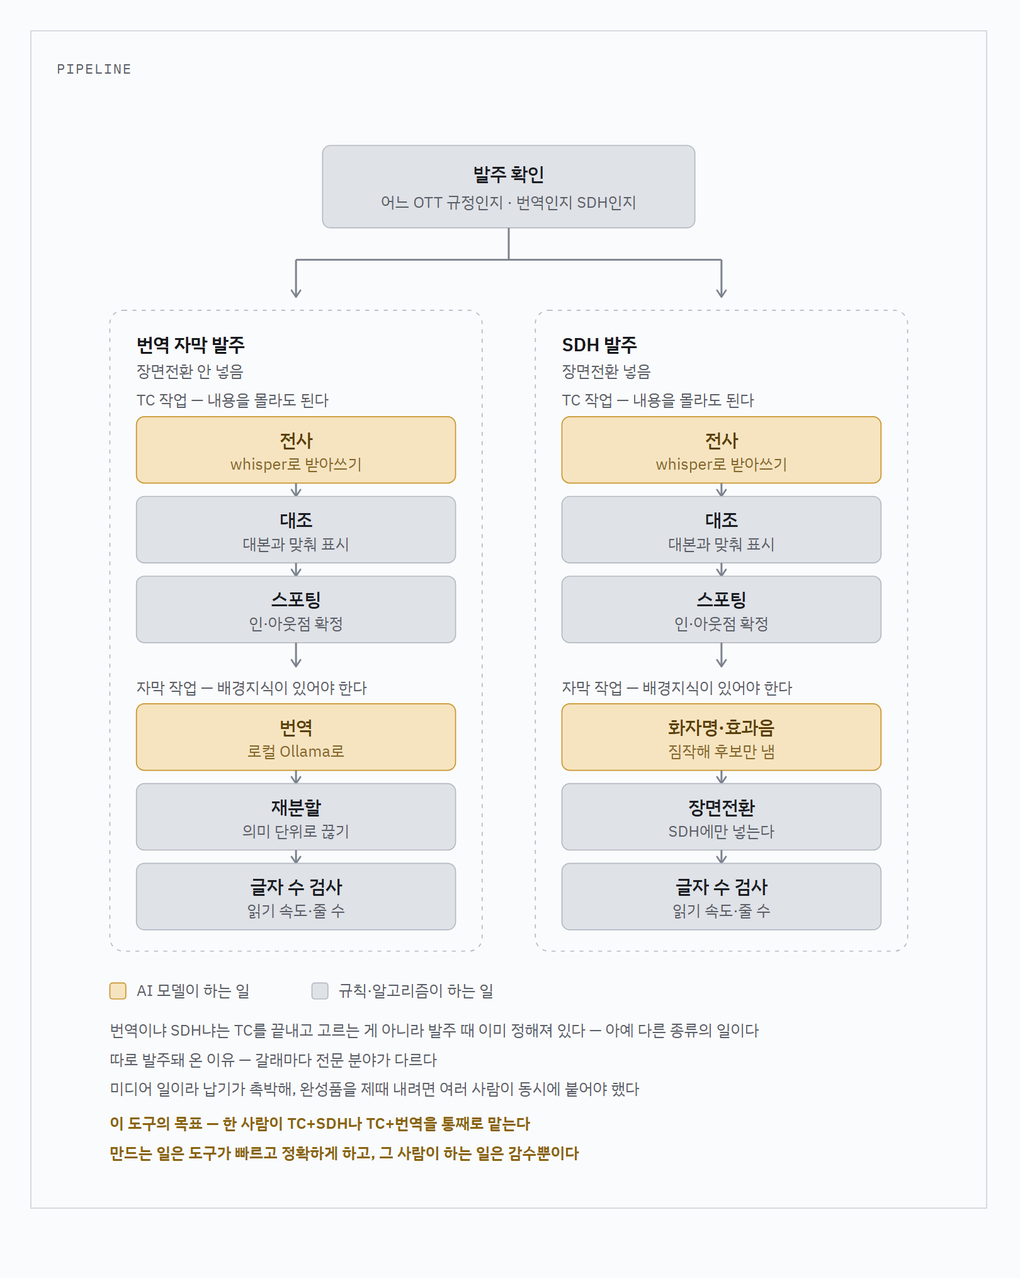
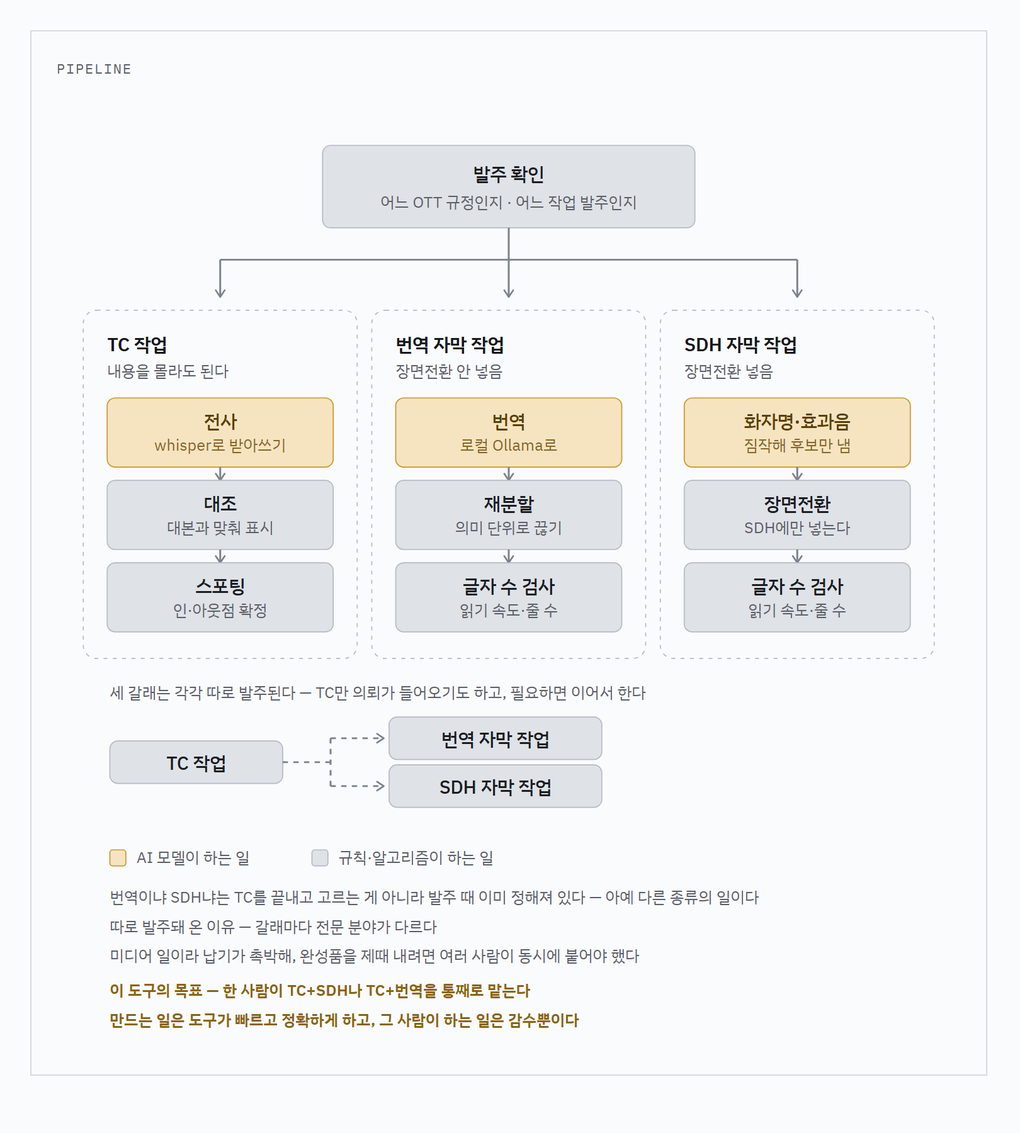
docs: TC 작업을 다시 독립 갈래로 세우고, 이어붙일 수 있음을 도식에 넣는다
사용자 지적(2026-09-10): TC 작업만 의뢰가 들어올 수 있으니 TC를 번역/SDH
안에 넣지 말고 따로 둬야 한다. 세 단계를 각각 독립으로 두되 필요하면 두세
개를 이어서 할 수 있는 구조가 맞다.

도식을 세 갈래(TC 작업 · 번역 자막 작업 · SDH 자막 작업)가 발주 확인 아래
나란히 서는 모양으로 바꿨다. 그 아래 점선 띠로 TC에서 번역이나 SDH로
이어붙이는 경우를 따로 표시한다.

발표문 본문·짚을 것·축약 대본도 같은 내용으로 맞추고 도식 PNG를 재렌더해
Notion 카드에 반영했다.

diff --git a/자막TC생성기-발표문.html b/자막TC생성기-발표문.html
@@ -68,6 +68,7 @@ svg{width:100%;height:auto;display:block;min-width:620px;
 .cap{font-size:12px;fill:var(--ink-soft)}
 .cap-goal{font-size:12px;font-weight:600;fill:var(--accent)}
 .ar{stroke:var(--arrow);stroke-width:1.4;fill:none}
+.dash{stroke:var(--arrow);stroke-width:1.4;fill:none;stroke-dasharray:4 4}
 .qa{margin-top:52px}
 .qa h2{font-family:"Gowun Batang",serif;font-size:24px;font-weight:700;margin:0 0 6px}
 .qa .lede{margin:0 0 26px;color:var(--ink-soft);font-size:15px}
@@ -124,117 +125,111 @@ td em{font-style:normal;color:var(--ink-soft)}
   <div class="say">
     <figure class="figure">
     <figcaption>PIPELINE</figcaption>
-    <svg viewBox="0 0 680 818" role="img" aria-labelledby="plt pld">
+    <svg viewBox="0 0 680 718" role="img" aria-labelledby="plt pld">
       <title id="plt">자막 및 TC 생성기 작업 구조</title>
-      <desc id="pld">발주를 확인하는 것이 맨 앞이다. 어느 OTT 규정을 따르는지와 함께, 번역 자막을 만드는 발주인지 SDH를 만드는 발주인지가 이 시점에 이미 정해져 있다. 둘은 아예 다른 종류의 일이라 TC를 끝낸 뒤에 고르는 것이 아니다. 각 발주는 TC 작업(전사, 대조, 스포팅)을 거친 뒤 자막 작업으로 간다. 번역 발주는 번역, 재분할, 글자 수 검사로 가고 장면전환을 넣지 않는다. SDH 발주는 화자명과 효과음, 장면전환, 글자 수 검사로 간다. 세 작업은 갈래마다 전문 분야가 다른 데다, 미디어 일이라 납기가 촉박해 여러 사람이 동시에 붙어야 제때 완성품이 나오기 때문에 지금까지 따로 발주돼 왔다. 이 도구의 목표는 한 사람이 TC와 SDH, 또는 TC와 번역을 통째로 맡는 것이다. 만드는 일은 도구가 하고, 그 사람이 하는 일은 도구가 낸 결과를 감수하는 것뿐이다.</desc>
+      <desc id="pld">발주를 확인하는 것이 맨 앞이다. 어느 OTT 규정을 따르는지와 함께, 어느 작업을 맡는 발주인지가 이 시점에 정해진다. 그 아래로 세 갈래가 나란히 선다. TC 작업은 전사, 대조, 스포팅으로 자막이 뜨고 지는 자리를 잡는다. 번역 자막 작업은 번역, 재분할, 글자 수 검사로 가고 장면전환을 넣지 않는다. SDH 자막 작업은 화자명과 효과음, 장면전환, 글자 수 검사로 간다. 세 갈래는 각각 독립된 발주라 TC만 의뢰가 들어오기도 하고, 필요하면 TC를 끝낸 뒤 번역이나 SDH로 이어서 하기도 한다. 갈래마다 전문 분야가 다른 데다, 미디어 일이라 납기가 촉박해 여러 사람이 동시에 붙어야 제때 완성품이 나오기 때문에 지금까지 따로 발주돼 왔다. 이 도구의 목표는 한 사람이 TC와 SDH, 또는 TC와 번역을 통째로 맡는 것이다. 만드는 일은 도구가 하고, 그 사람이 하는 일은 도구가 낸 결과를 감수하는 것뿐이다.</desc>
       <defs><marker id="ar" viewBox="0 0 10 10" refX="8" refY="5" markerWidth="6" markerHeight="6" orient="auto-start-reverse"><path d="M2 1L8 5L2 9" fill="none" stroke="context-stroke" stroke-width="1.5" stroke-linecap="round" stroke-linejoin="round"/></marker></defs>
 
       <g class="n-rule">
         <rect x="200" y="36" width="280" height="62" rx="6"/>
         <text class="t" x="340" y="58" text-anchor="middle" dominant-baseline="central">발주 확인</text>
-        <text class="s" x="340" y="79" text-anchor="middle" dominant-baseline="central">어느 OTT 규정인지 · 번역인지 SDH인지</text>
+        <text class="s" x="340" y="79" text-anchor="middle" dominant-baseline="central">어느 OTT 규정인지 · 어느 작업 발주인지</text>
       </g>
       <line class="ar" x1="340" y1="98" x2="340" y2="122"/>
-      <line class="ar" x1="180" y1="122" x2="500" y2="122"/>
-      <line class="ar" x1="180" y1="122" x2="180" y2="150" marker-end="url(#ar)"/>
-      <line class="ar" x1="500" y1="122" x2="500" y2="150" marker-end="url(#ar)"/>
+      <line class="ar" x1="123" y1="122" x2="557" y2="122"/>
+      <line class="ar" x1="123" y1="122" x2="123" y2="150" marker-end="url(#ar)"/>
+      <line class="ar" x1="340" y1="122" x2="340" y2="150" marker-end="url(#ar)"/>
+      <line class="ar" x1="557" y1="122" x2="557" y2="150" marker-end="url(#ar)"/>
 
-      <rect class="lane" x="40" y="160" width="280" height="482" rx="10"/>
-      <text class="lb" x="60" y="186" dominant-baseline="central">번역 자막 발주</text>
-      <text class="lbs" x="60" y="206" dominant-baseline="central">장면전환 안 넣음</text>
-      <text class="lbs" x="60" y="228" dominant-baseline="central">TC 작업 — 내용을 몰라도 된다</text>
+      <rect class="lane" x="20" y="160" width="206" height="262" rx="10"/>
+      <text class="lb" x="38" y="186" dominant-baseline="central">TC 작업</text>
+      <text class="lbs" x="38" y="206" dominant-baseline="central">내용을 몰라도 된다</text>
       <g class="n-ai">
-        <rect x="60" y="240" width="240" height="50" rx="6"/>
-        <text class="t" x="180" y="258" text-anchor="middle" dominant-baseline="central">전사</text>
-        <text class="s" x="180" y="276" text-anchor="middle" dominant-baseline="central">whisper로 받아쓰기</text>
+        <rect x="38" y="226" width="170" height="52" rx="6"/>
+        <text class="t" x="123" y="244" text-anchor="middle" dominant-baseline="central">전사</text>
+        <text class="s" x="123" y="262" text-anchor="middle" dominant-baseline="central">whisper로 받아쓰기</text>
       </g>
-      <line class="ar" x1="180" y1="290" x2="180" y2="300" marker-end="url(#ar)"/>
+      <line class="ar" x1="123" y1="278" x2="123" y2="288" marker-end="url(#ar)"/>
       <g class="n-rule">
-        <rect x="60" y="300" width="240" height="50" rx="6"/>
-        <text class="t" x="180" y="318" text-anchor="middle" dominant-baseline="central">대조</text>
-        <text class="s" x="180" y="336" text-anchor="middle" dominant-baseline="central">대본과 맞춰 표시</text>
+        <rect x="38" y="288" width="170" height="52" rx="6"/>
+        <text class="t" x="123" y="306" text-anchor="middle" dominant-baseline="central">대조</text>
+        <text class="s" x="123" y="324" text-anchor="middle" dominant-baseline="central">대본과 맞춰 표시</text>
       </g>
-      <line class="ar" x1="180" y1="350" x2="180" y2="360" marker-end="url(#ar)"/>
+      <line class="ar" x1="123" y1="340" x2="123" y2="350" marker-end="url(#ar)"/>
       <g class="n-rule">
-        <rect x="60" y="360" width="240" height="50" rx="6"/>
-        <text class="t" x="180" y="378" text-anchor="middle" dominant-baseline="central">스포팅</text>
-        <text class="s" x="180" y="396" text-anchor="middle" dominant-baseline="central">인·아웃점 확정</text>
-      </g>
-      <line class="ar" x1="180" y1="410" x2="180" y2="428" marker-end="url(#ar)"/>
-      <text class="lbs" x="60" y="444" dominant-baseline="central">자막 작업 — 배경지식이 있어야 한다</text>
-      <g class="n-ai">
-        <rect x="60" y="456" width="240" height="50" rx="6"/>
-        <text class="t" x="180" y="474" text-anchor="middle" dominant-baseline="central">번역</text>
-        <text class="s" x="180" y="492" text-anchor="middle" dominant-baseline="central">로컬 Ollama로</text>
-      </g>
-      <line class="ar" x1="180" y1="506" x2="180" y2="516" marker-end="url(#ar)"/>
-      <g class="n-rule">
-        <rect x="60" y="516" width="240" height="50" rx="6"/>
-        <text class="t" x="180" y="534" text-anchor="middle" dominant-baseline="central">재분할</text>
-        <text class="s" x="180" y="552" text-anchor="middle" dominant-baseline="central">의미 단위로 끊기</text>
-      </g>
-      <line class="ar" x1="180" y1="566" x2="180" y2="576" marker-end="url(#ar)"/>
-      <g class="n-rule">
-        <rect x="60" y="576" width="240" height="50" rx="6"/>
-        <text class="t" x="180" y="594" text-anchor="middle" dominant-baseline="central">글자 수 검사</text>
-        <text class="s" x="180" y="612" text-anchor="middle" dominant-baseline="central">읽기 속도·줄 수</text>
+        <rect x="38" y="350" width="170" height="52" rx="6"/>
+        <text class="t" x="123" y="368" text-anchor="middle" dominant-baseline="central">스포팅</text>
+        <text class="s" x="123" y="386" text-anchor="middle" dominant-baseline="central">인·아웃점 확정</text>
       </g>
 
-      <rect class="lane" x="360" y="160" width="280" height="482" rx="10"/>
-      <text class="lb" x="380" y="186" dominant-baseline="central">SDH 발주</text>
-      <text class="lbs" x="380" y="206" dominant-baseline="central">장면전환 넣음</text>
-      <text class="lbs" x="380" y="228" dominant-baseline="central">TC 작업 — 내용을 몰라도 된다</text>
+      <rect class="lane" x="237" y="160" width="206" height="262" rx="10"/>
+      <text class="lb" x="255" y="186" dominant-baseline="central">번역 자막 작업</text>
+      <text class="lbs" x="255" y="206" dominant-baseline="central">장면전환 안 넣음</text>
       <g class="n-ai">
-        <rect x="380" y="240" width="240" height="50" rx="6"/>
-        <text class="t" x="500" y="258" text-anchor="middle" dominant-baseline="central">전사</text>
-        <text class="s" x="500" y="276" text-anchor="middle" dominant-baseline="central">whisper로 받아쓰기</text>
+        <rect x="255" y="226" width="170" height="52" rx="6"/>
+        <text class="t" x="340" y="244" text-anchor="middle" dominant-baseline="central">번역</text>
+        <text class="s" x="340" y="262" text-anchor="middle" dominant-baseline="central">로컬 Ollama로</text>
       </g>
-      <line class="ar" x1="500" y1="290" x2="500" y2="300" marker-end="url(#ar)"/>
+      <line class="ar" x1="340" y1="278" x2="340" y2="288" marker-end="url(#ar)"/>
       <g class="n-rule">
-        <rect x="380" y="300" width="240" height="50" rx="6"/>
-        <text class="t" x="500" y="318" text-anchor="middle" dominant-baseline="central">대조</text>
-        <text class="s" x="500" y="336" text-anchor="middle" dominant-baseline="central">대본과 맞춰 표시</text>
+        <rect x="255" y="288" width="170" height="52" rx="6"/>
+        <text class="t" x="340" y="306" text-anchor="middle" dominant-baseline="central">재분할</text>
+        <text class="s" x="340" y="324" text-anchor="middle" dominant-baseline="central">의미 단위로 끊기</text>
       </g>
-      <line class="ar" x1="500" y1="350" x2="500" y2="360" marker-end="url(#ar)"/>
+      <line class="ar" x1="340" y1="340" x2="340" y2="350" marker-end="url(#ar)"/>
       <g class="n-rule">
-        <rect x="380" y="360" width="240" height="50" rx="6"/>
-        <text class="t" x="500" y="378" text-anchor="middle" dominant-baseline="central">스포팅</text>
-        <text class="s" x="500" y="396" text-anchor="middle" dominant-baseline="central">인·아웃점 확정</text>
-      </g>
-      <line class="ar" x1="500" y1="410" x2="500" y2="428" marker-end="url(#ar)"/>
-      <text class="lbs" x="380" y="444" dominant-baseline="central">자막 작업 — 배경지식이 있어야 한다</text>
-      <g class="n-ai">
-        <rect x="380" y="456" width="240" height="50" rx="6"/>
-        <text class="t" x="500" y="474" text-anchor="middle" dominant-baseline="central">화자명·효과음</text>
-        <text class="s" x="500" y="492" text-anchor="middle" dominant-baseline="central">짐작해 후보만 냄</text>
-      </g>
-      <line class="ar" x1="500" y1="506" x2="500" y2="516" marker-end="url(#ar)"/>
-      <g class="n-rule">
-        <rect x="380" y="516" width="240" height="50" rx="6"/>
-        <text class="t" x="500" y="534" text-anchor="middle" dominant-baseline="central">장면전환</text>
-        <text class="s" x="500" y="552" text-anchor="middle" dominant-baseline="central">SDH에만 넣는다</text>
-      </g>
-      <line class="ar" x1="500" y1="566" x2="500" y2="576" marker-end="url(#ar)"/>
-      <g class="n-rule">
-        <rect x="380" y="576" width="240" height="50" rx="6"/>
-        <text class="t" x="500" y="594" text-anchor="middle" dominant-baseline="central">글자 수 검사</text>
-        <text class="s" x="500" y="612" text-anchor="middle" dominant-baseline="central">읽기 속도·줄 수</text>
+        <rect x="255" y="350" width="170" height="52" rx="6"/>
+        <text class="t" x="340" y="368" text-anchor="middle" dominant-baseline="central">글자 수 검사</text>
+        <text class="s" x="340" y="386" text-anchor="middle" dominant-baseline="central">읽기 속도·줄 수</text>
       </g>
 
-      <g class="n-ai"><rect x="40" y="666" width="12" height="12" rx="2"/></g>
-      <text class="lg" x="60" y="672" dominant-baseline="central">AI 모델이 하는 일</text>
-      <g class="n-rule"><rect x="192" y="666" width="12" height="12" rx="2"/></g>
-      <text class="lg" x="212" y="672" dominant-baseline="central">규칙·알고리즘이 하는 일</text>
-      <text class="cap" x="40" y="702" dominant-baseline="central">번역이냐 SDH냐는 TC를 끝내고 고르는 게 아니라 발주 때 이미 정해져 있다 — 아예 다른 종류의 일이다</text>
-      <text class="cap" x="40" y="724" dominant-baseline="central">따로 발주돼 온 이유 — 갈래마다 전문 분야가 다르다</text>
-      <text class="cap" x="40" y="746" dominant-baseline="central">미디어 일이라 납기가 촉박해, 완성품을 제때 내려면 여러 사람이 동시에 붙어야 했다</text>
-      <text class="cap-goal" x="40" y="772" dominant-baseline="central">이 도구의 목표 — 한 사람이 TC+SDH나 TC+번역을 통째로 맡는다</text>
-      <text class="cap-goal" x="40" y="794" dominant-baseline="central">만드는 일은 도구가 빠르고 정확하게 하고, 그 사람이 하는 일은 감수뿐이다</text>
+      <rect class="lane" x="454" y="160" width="206" height="262" rx="10"/>
+      <text class="lb" x="472" y="186" dominant-baseline="central">SDH 자막 작업</text>
+      <text class="lbs" x="472" y="206" dominant-baseline="central">장면전환 넣음</text>
+      <g class="n-ai">
+        <rect x="472" y="226" width="170" height="52" rx="6"/>
+        <text class="t" x="557" y="244" text-anchor="middle" dominant-baseline="central">화자명·효과음</text>
+        <text class="s" x="557" y="262" text-anchor="middle" dominant-baseline="central">짐작해 후보만 냄</text>
+      </g>
+      <line class="ar" x1="557" y1="278" x2="557" y2="288" marker-end="url(#ar)"/>
+      <g class="n-rule">
+        <rect x="472" y="288" width="170" height="52" rx="6"/>
+        <text class="t" x="557" y="306" text-anchor="middle" dominant-baseline="central">장면전환</text>
+        <text class="s" x="557" y="324" text-anchor="middle" dominant-baseline="central">SDH에만 넣는다</text>
+      </g>
+      <line class="ar" x1="557" y1="340" x2="557" y2="350" marker-end="url(#ar)"/>
+      <g class="n-rule">
+        <rect x="472" y="350" width="170" height="52" rx="6"/>
+        <text class="t" x="557" y="368" text-anchor="middle" dominant-baseline="central">글자 수 검사</text>
+        <text class="s" x="557" y="386" text-anchor="middle" dominant-baseline="central">읽기 속도·줄 수</text>
+      </g>
+
+      <text class="lbs" x="40" y="448" dominant-baseline="central">세 갈래는 각각 따로 발주된다 — TC만 의뢰가 들어오기도 하고, 필요하면 이어서 한다</text>
+      <g class="n-rule"><rect x="40" y="484" width="130" height="32" rx="6"/>
+        <text class="t" x="105" y="501" text-anchor="middle" dominant-baseline="central">TC 작업</text></g>
+      <line class="dash" x1="170" y1="500" x2="206" y2="500"/>
+      <line class="dash" x1="206" y1="482" x2="206" y2="518"/>
+      <line class="dash" x1="206" y1="482" x2="246" y2="482" marker-end="url(#ar)"/>
+      <line class="dash" x1="206" y1="518" x2="246" y2="518" marker-end="url(#ar)"/>
+      <g class="n-rule"><rect x="250" y="466" width="160" height="32" rx="6"/>
+        <text class="t" x="330" y="483" text-anchor="middle" dominant-baseline="central">번역 자막 작업</text></g>
+      <g class="n-rule"><rect x="250" y="502" width="160" height="32" rx="6"/>
+        <text class="t" x="330" y="519" text-anchor="middle" dominant-baseline="central">SDH 자막 작업</text></g>
+
+      <g class="n-ai"><rect x="40" y="566" width="12" height="12" rx="2"/></g>
+      <text class="lg" x="60" y="572" dominant-baseline="central">AI 모델이 하는 일</text>
+      <g class="n-rule"><rect x="192" y="566" width="12" height="12" rx="2"/></g>
+      <text class="lg" x="212" y="572" dominant-baseline="central">규칙·알고리즘이 하는 일</text>
+      <text class="cap" x="40" y="602" dominant-baseline="central">번역이냐 SDH냐는 TC를 끝내고 고르는 게 아니라 발주 때 이미 정해져 있다 — 아예 다른 종류의 일이다</text>
+      <text class="cap" x="40" y="624" dominant-baseline="central">따로 발주돼 온 이유 — 갈래마다 전문 분야가 다르다</text>
+      <text class="cap" x="40" y="646" dominant-baseline="central">미디어 일이라 납기가 촉박해, 완성품을 제때 내려면 여러 사람이 동시에 붙어야 했다</text>
+      <text class="cap-goal" x="40" y="672" dominant-baseline="central">이 도구의 목표 — 한 사람이 TC+SDH나 TC+번역을 통째로 맡는다</text>
+      <text class="cap-goal" x="40" y="694" dominant-baseline="central">만드는 일은 도구가 빠르고 정확하게 하고, 그 사람이 하는 일은 감수뿐이다</text>
     </svg>
   </figure>
     <p>그래서 영상 하나 받으면 제일 먼저 이게 지금 어디서 상영 중인지부터 확인해요. 발주처가 정해져야 뒤에 따라야 할 규정이 정해지거든요.</p>
     <p>그다음은 크게 세 갈래인데, 실무에서는 각각 따로 발주돼 왔어요. 갈래마다 전문 분야가 다르기도 하고, 미디어 일이라 납기가 워낙 촉박해서 여러 사람이 동시에 붙어야 제때 완성품이 나오거든요. 먼저 TC 작업. 자막이 몇 초에 뜨고 몇 초에 지는지, 그 자리를 잡는 일이에요. 전사하고, 대본이랑 맞춰보고, 인점 아웃점을 확정해요. 대조할 때 재밌는 게, 전사가 틀릴 때도 있고 대본이 틀릴 때도 있어요. 현장에서 애드리브 치기도 하니까요. 그래서 둘 중 하나를 정답으로 안 두고 어긋나는 데는 표시만 해둬요.</p>
-    <p>여기서 하나 짚을 게, 번역 자막이냐 SDH냐는 TC를 끝내 놓고 고르는 게 아니에요. 발주받을 때 이미 정해져 있어요. 아예 다른 종류의 일이거든요. 번역 자막은 번역하고, 의미 단위로 다시 끊고, 글자 수를 맞춰요. SDH는 청각장애인용 자막이라 누가 말하는지, 무슨 소리가 나는지를 넣고, 장면전환도 표시해요. 이 장면전환은 SDH에만 넣고 번역 자막에는 안 넣어요. 실무 관행이 그래요.</p>
+    <p>여기서 하나 짚을 게, 번역 자막이냐 SDH냐는 TC를 끝내 놓고 고르는 게 아니에요. 발주받을 때 이미 정해져 있어요. 아예 다른 종류의 일이거든요. TC만 의뢰가 들어오는 경우도 있고, 필요하면 TC를 끝낸 그 자리에서 번역이나 SDH까지 이어서 하기도 해요. 번역 자막은 번역하고, 의미 단위로 다시 끊고, 글자 수를 맞춰요. SDH는 청각장애인용 자막이라 누가 말하는지, 무슨 소리가 나는지를 넣고, 장면전환도 표시해요. 이 장면전환은 SDH에만 넣고 번역 자막에는 안 넣어요. 실무 관행이 그래요.</p>
     <p>번역은 특히 그래요. 드라마 같은 시리즈물은 한 사람이 다 못 하고 여러 번역자가 나눠 맡거든요. 그래서 말투를 어느 정도 규격으로 정해 두고, 용어를 통일하려고 KNP라는 엑셀 시트를 따로 만들어서 맞춰요. 번역 자체 말고 붙는 일이 많은 거죠.</p>
     <p>제가 만들려는 게 정확히 여기예요. 한 사람이 TC랑 SDH를, 또는 TC랑 번역을 통째로 맡는 거예요. 대신 만드는 일은 도구가 빠르고 정확하게 해 주고, 그 사람이 하는 일은 나온 결과를 감수하는 것만 남고요. 그게 이 프로젝트의 핵심이에요.</p>
     <p>그리고 실제로는 TC가 이미 끝난 파일을 받아서 번역만 하는 경우가 제일 흔해요. 그때는 도구가 타임코드를 아예 못 건드리게 잠가버립니다. 잠근 상태에서 타이밍을 고치라고 하면 그냥 에러를 내요.</p>
@@ -243,6 +238,7 @@ td em{font-style:normal;color:var(--ink-soft)}
         <li>따로 발주돼 온 건 전문 분야가 갈리는 데다 납기가 촉박해 여러 사람이 동시에 붙어야 해서 — 번역은 공동작업이라 말투 규격·KNP 시트까지 붙음</li>
         <li>이 프로젝트의 핵심 — 한 사람이 TC+SDH 또는 TC+번역을 통째로 맡되, 만드는 일은 도구가 하고 그 사람에게는 감수만 남기는 것</li>
         <li>장면전환은 SDH에만 — 넷플릭스 공식 문서는 전체 적용이라 적었지만 실무는 갈라 씀</li>
+        <li>세 갈래가 각각 독립된 발주 — TC만 받는 일도 있고, 필요하면 두세 개를 이어서 함</li>
         <li>번역이냐 SDH냐는 발주 때 이미 정해짐 — TC 끝내고 고르는 게 아니라 아예 다른 종류의 일</li>
         <li>노란 박스가 AI — 받아쓰기, 번역, 소리 짐작. 검사·타이밍은 전부 규칙</li>
       </ul>

diff --git a/자막TC생성기-발표문.md b/자막TC생성기-발표문.md
@@ -6,11 +6,11 @@
 
 [파이프라인 그림]
 
-그래서 영상 하나 받으면 제일 먼저 이게 지금 어디서 상영 중인지부터 확인해요. 발주처가 정해져야 뒤에 따라야 할 규정이 정해지거든요. 그리고 이때 번역 자막을 만드는 발주인지 SDH를 만드는 발주인지도 이미 정해져 있어요. TC를 끝내 놓고 고르는 게 아니라, 아예 다른 종류의 일이라서요.
+그래서 영상 하나 받으면 제일 먼저 이게 지금 어디서 상영 중인지부터 확인해요. 발주처가 정해져야 뒤에 따라야 할 규정이 정해지거든요. 그리고 이때 무슨 작업을 맡는 발주인지도 이미 정해져 있어요. TC 작업, 번역 자막 작업, SDH 자막 작업이 각각 따로 발주되거든요. TC만 의뢰가 들어오기도 하고요. 번역이냐 SDH냐를 TC 끝내 놓고 고르는 게 아니라, 아예 다른 종류의 일이라서요.
 
 전사는 whisper로 일단 들리는 대로 받아 적고요, 대조는 이걸 원래 대본이랑 맞춰봐요. 근데 전사가 틀릴 때도 있고 대본이 틀릴 때도 있어요. 현장에서 애드리브 치기도 하니까요. 그래서 둘 중 하나를 정답으로 안 두고, 어긋나는 데는 표시만 해둬요. 여기까지가 TC 작업이에요. 자막이 몇 초에 뜨고 몇 초에 지는지, 그 자리를 잡는 일이죠.
 
-그다음은 발주가 무엇이냐에 따라 갈려요. 번역 발주면 번역하고, 문장을 의미 단위로 다시 끊고, 마지막에 글자 수랑 읽는 속도를 맞춰요. SDH 발주면 누가 말하는지, 무슨 소리가 나는지를 넣고 장면전환도 표시해요. 이 장면전환은 SDH에만 넣고 번역 자막에는 안 넣어요.
+그다음은 발주가 무엇이냐에 따라 갈려요. 필요하면 TC를 끝낸 그 자리에서 이어서 하기도 해요. 번역 발주면 번역하고, 문장을 의미 단위로 다시 끊고, 마지막에 글자 수랑 읽는 속도를 맞춰요. SDH 발주면 누가 말하는지, 무슨 소리가 나는지를 넣고 장면전환도 표시해요. 이 장면전환은 SDH에만 넣고 번역 자막에는 안 넣어요.
 
 실무에서는 TC, 번역, SDH가 각각 따로 발주돼 왔어요. 갈래마다 전문 분야가 다르기도 하고, 미디어 일이라 납기가 워낙 촉박해서 여러 사람이 동시에 붙어야 제때 완성품이 나오거든요. 번역은 특히, 드라마 같은 시리즈물은 여러 번역자가 나눠 맡아서 말투를 규격으로 정해 두고 용어 통일하려고 KNP라는 엑셀 시트를 따로 맞춰요. 제가 만들려는 게 정확히 여기예요 — 한 사람이 TC+SDH를, 또는 TC+번역을 통째로 맡는 거예요. 대신 만드는 일은 도구가 빠르고 정확하게 해 주고, 그 사람이 하는 일은 나온 결과를 감수하는 것만 남고요. 그게 이 프로젝트의 핵심이에요.
 
